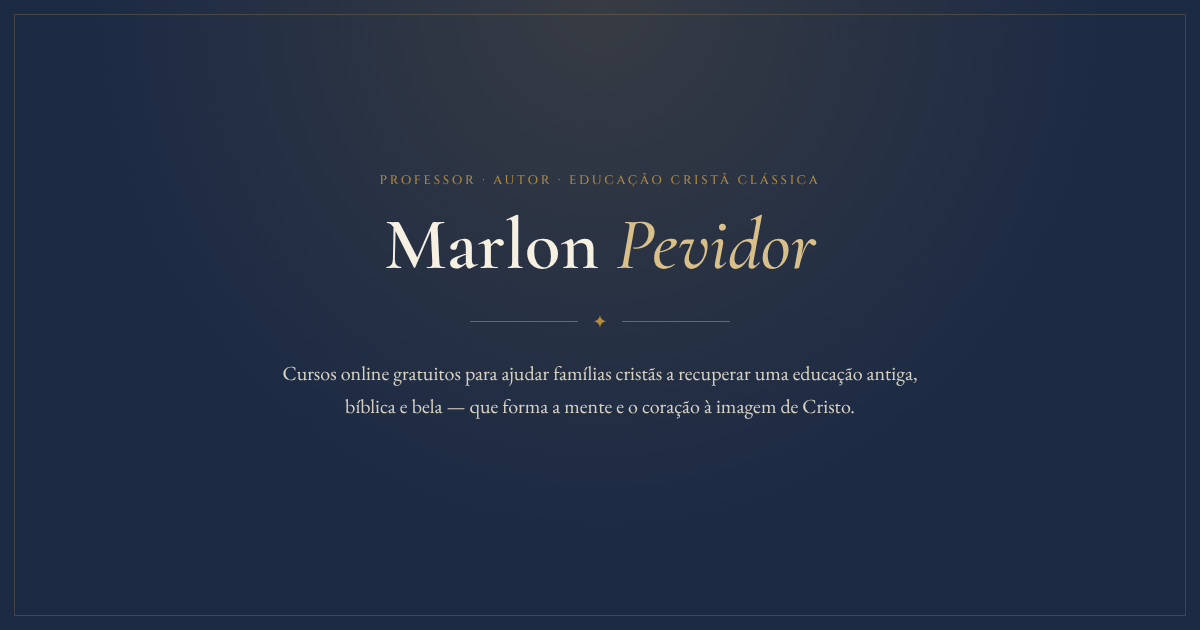
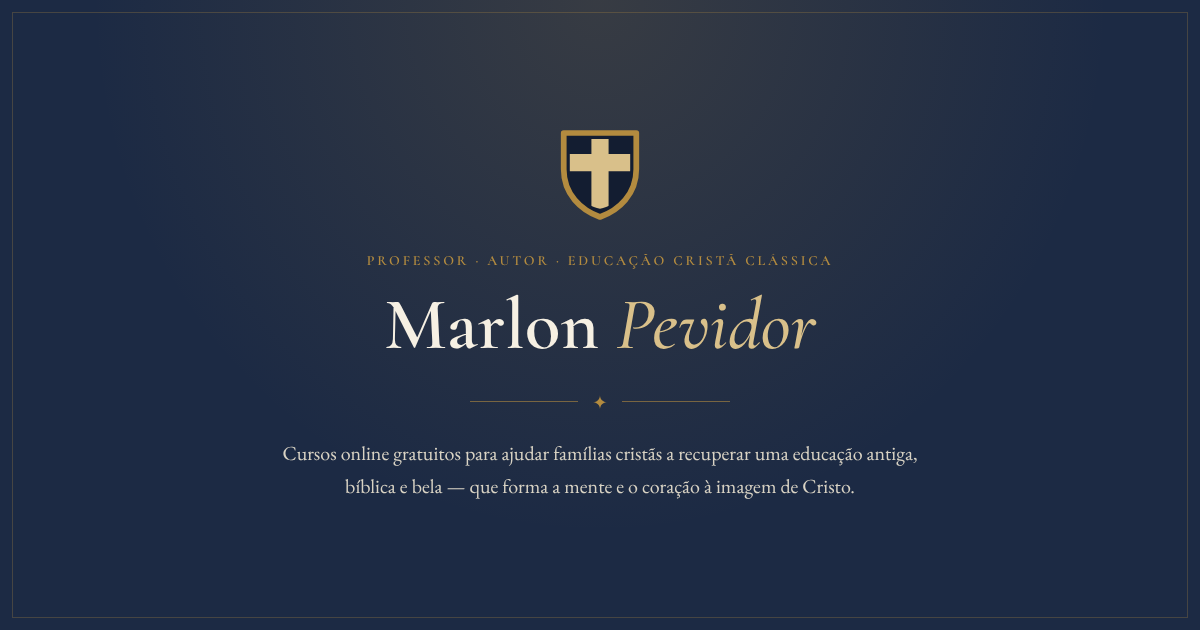
Novo escudo com cruz (desenho próprio) e imagens de compartilhamento atualizadas
- Escudo heráldico de topo reto, cruz latina larga dourada com filete azul
- Mesmo desenho no ícone da aba
- Imagens de compartilhamento com o escudo e endereço marlonpevidor.pages.dev
- ?v=2 nas imagens para o WhatsApp buscar a versão nova
- Script ferramentas/gerar-imagens-compartilhamento.js

Claude-Session: https://claude.ai/code/session_019zbxNExRumNR7DhoC4HdTc

diff --git a/iecc/index.html b/iecc/index.html
@@ -5,14 +5,14 @@
 <meta name="viewport" content="width=device-width, initial-scale=1">
 <title>Introdução à Educação Cristã Clássica · Marlon Pevidor</title>
 <meta name="description" content="Curso online gratuito de introdução à educação cristã clássica, com Marlon Pevidor.">
-<link rel="canonical" href="https://curso-iecc.pages.dev/iecc/">
+<link rel="canonical" href="https://marlonpevidor.pages.dev/iecc/">
 <meta property="og:type" content="website">
 <meta property="og:locale" content="pt_BR">
 <meta property="og:site_name" content="Marlon Pevidor">
-<meta property="og:url" content="https://curso-iecc.pages.dev/iecc/">
+<meta property="og:url" content="https://marlonpevidor.pages.dev/iecc/">
 <meta property="og:title" content="Introdução à Educação Cristã Clássica · Marlon Pevidor">
 <meta property="og:description" content="Curso online gratuito: redescubra a tradição que formou gerações pela verdade, pela bondade e pela beleza.">
-<meta property="og:image" content="https://curso-iecc.pages.dev/iecc/compartilhar.png">
+<meta property="og:image" content="https://marlonpevidor.pages.dev/iecc/compartilhar.png?v=2">
 <meta property="og:image:width" content="1200">
 <meta property="og:image:height" content="630">
 <meta name="twitter:card" content="summary_large_image">
@@ -27,10 +27,7 @@
 <header class="top">
   <div class="wrap">
     <a class="brand" href="../">
-      <svg class="crest" viewBox="0 0 40 40" aria-hidden="true">
-        <path d="M20 2 L36 8 V20 C36 29 28 35 20 38 C12 35 4 29 4 20 V8 Z" fill="none" stroke="#b38b3f" stroke-width="1.5"/>
-        <!-- Cruz: Phosphor Icons "cross-fill" (licença MIT) --><g transform="translate(7.45 6.9) scale(0.098)" fill="#d9c08a"><path d="M216,92v24a16,16,0,0,1-16,16H156v92a16,16,0,0,1-16,16H116a16,16,0,0,1-16-16V132H56a16,16,0,0,1-16-16V92A16,16,0,0,1,56,76h44V32a16,16,0,0,1,16-16h24a16,16,0,0,1,16,16V76h44A16,16,0,0,1,216,92Z"/></g>
-      </svg>
+      <!-- Escudo com cruz: desenho próprio (heráldica clássica) --><svg class="crest" aria-hidden="true" viewBox="0 0 44 50"><defs><clipPath id="escudo"><path d="M6.1 6.1 H37.9 V22 C37.9 33.14 30.759999999999998 41.019999999999996 22 42.66 C13.24 41.019999999999996 6.1 33.14 6.1 22 Z"/></clipPath></defs><path d="M3 3 H41 V22 C41 35 32 43.5 22 47 C12 43.5 3 35 3 22 Z" fill="#131d31"/><path d="M17.5 0 H26.5 V14 H44 V23 H26.5 V50 H17.5 V23 H0 V14 H17.5 Z" fill="#d9c08a" clip-path="url(#escudo)"/><path d="M3 3 H41 V22 C41 35 32 43.5 22 47 C12 43.5 3 35 3 22 Z" fill="none" stroke="#b38b3f" stroke-width="3.0" stroke-linejoin="round"/></svg>
       <span>MARLON PEVIDOR</span>
     </a>
     <nav class="links">

diff --git a/index.html b/index.html
@@ -5,14 +5,14 @@
 <meta name="viewport" content="width=device-width, initial-scale=1">
 <title>Marlon Pevidor · Educação Cristã Clássica</title>
 <meta name="description" content="Cursos online gratuitos de educação cristã clássica e história da Igreja, com o professor Marlon Pevidor.">
-<link rel="canonical" href="https://curso-iecc.pages.dev/">
+<link rel="canonical" href="https://marlonpevidor.pages.dev/">
 <meta property="og:type" content="website">
 <meta property="og:locale" content="pt_BR">
 <meta property="og:site_name" content="Marlon Pevidor">
-<meta property="og:url" content="https://curso-iecc.pages.dev/">
+<meta property="og:url" content="https://marlonpevidor.pages.dev/">
 <meta property="og:title" content="Marlon Pevidor · Educação Cristã Clássica">
 <meta property="og:description" content="Cursos online gratuitos para formar a mente e o coração da sua família.">
-<meta property="og:image" content="https://curso-iecc.pages.dev/compartilhar.png">
+<meta property="og:image" content="https://marlonpevidor.pages.dev/compartilhar.png?v=2">
 <meta property="og:image:width" content="1200">
 <meta property="og:image:height" content="630">
 <meta name="twitter:card" content="summary_large_image">
@@ -31,10 +31,7 @@
 <header class="top">
   <div class="wrap">
     <a class="brand" href="#">
-      <svg class="crest" viewBox="0 0 40 40" aria-hidden="true">
-        <path d="M20 2 L36 8 V20 C36 29 28 35 20 38 C12 35 4 29 4 20 V8 Z" fill="none" stroke="#b38b3f" stroke-width="1.5"/>
-        <!-- Cruz: Phosphor Icons "cross-fill" (licença MIT) --><g transform="translate(7.45 6.9) scale(0.098)" fill="#d9c08a"><path d="M216,92v24a16,16,0,0,1-16,16H156v92a16,16,0,0,1-16,16H116a16,16,0,0,1-16-16V132H56a16,16,0,0,1-16-16V92A16,16,0,0,1,56,76h44V32a16,16,0,0,1,16-16h24a16,16,0,0,1,16,16V76h44A16,16,0,0,1,216,92Z"/></g>
-      </svg>
+      <!-- Escudo com cruz: desenho próprio (heráldica clássica) --><svg class="crest" aria-hidden="true" viewBox="0 0 44 50"><defs><clipPath id="escudo"><path d="M6.1 6.1 H37.9 V22 C37.9 33.14 30.759999999999998 41.019999999999996 22 42.66 C13.24 41.019999999999996 6.1 33.14 6.1 22 Z"/></clipPath></defs><path d="M3 3 H41 V22 C41 35 32 43.5 22 47 C12 43.5 3 35 3 22 Z" fill="#131d31"/><path d="M17.5 0 H26.5 V14 H44 V23 H26.5 V50 H17.5 V23 H0 V14 H17.5 Z" fill="#d9c08a" clip-path="url(#escudo)"/><path d="M3 3 H41 V22 C41 35 32 43.5 22 47 C12 43.5 3 35 3 22 Z" fill="none" stroke="#b38b3f" stroke-width="3.0" stroke-linejoin="round"/></svg>
       <span>MARLON PEVIDOR</span>
     </a>
     <nav class="links">

diff --git a/ferramentas/gerar-imagens-compartilhamento.js b/ferramentas/gerar-imagens-compartilhamento.js
@@ -1,0 +1,26 @@
+// Gera as imagens de compartilhamento (1200x630) a partir do topo de cada página, com o escudo.
+// Uso: na raiz, rode  python3 -m http.server 8765  e depois  node ferramentas/gerar-imagens-compartilhamento.js
+const { chromium } = require('playwright');
+(async () => {
+  const b = await chromium.launch();
+  for (const [url, out] of [['http://localhost:8765/', 'compartilhar.png'], ['http://localhost:8765/iecc/', 'iecc/compartilhar.png']]) {
+    const p = await b.newPage({ viewport: { width: 1200, height: 630 } });
+    await p.goto(url); await p.waitForTimeout(1500);
+    await p.evaluate(() => {
+      const crest = document.querySelector('header .crest').cloneNode(true);
+      crest.setAttribute('class', 'share-crest');
+      crest.querySelector('clipPath').id = 'escudo-share';
+      crest.querySelector('[clip-path]').setAttribute('clip-path', 'url(#escudo-share)');
+      document.querySelector('.hero .wrap').prepend(crest);
+    });
+    await p.addStyleTag({ content: `header.top,.hero .actions{display:none!important}
+      .hero{height:630px;display:flex;align-items:center;padding:0!important}.hero .wrap{width:100%}
+      .share-crest{display:block;width:84px;height:96px;margin:0 auto 26px}
+      .hero .meta{display:none!important} .hero h1{max-width:22ch!important}
+      .hero p.lede{margin-bottom:0!important}` });
+    await p.waitForTimeout(500);
+    await p.screenshot({ path: '/home/user/landing-page/' + out });
+    await p.close();
+  }
+  await b.close();
+})();

diff --git a/estilo.css b/estilo.css
@@ -74,7 +74,7 @@
   header.top .wrap { display: flex; align-items: center; justify-content: space-between; height: 68px; }
   .brand { display: flex; align-items: center; gap: 12px; text-decoration: none; color: var(--parchment); }
   .crest {
-    width: 40px; height: 40px; flex: none;
+    width: 36px; height: 41px; flex: none;
   }
   .brand span { font-family: var(--caps); font-weight: 600; letter-spacing: .14em; font-size: 1.02rem; }
   nav.links a {

diff --git a/CLAUDE.md b/CLAUDE.md
@@ -18,8 +18,13 @@ Endereços: `marlonpevidor.pages.dev` (principal) e `curso-iecc.pages.dev` (anti
 - Fontes: Cormorant Garamond (títulos), EB Garamond (texto), Cormorant SC peso 600 (rótulos em maiúsculas).
   Não usar Cinzel: o "Ã" some em alguns navegadores (visto no computador do professor).
 - Menu do topo aparece também no celular (marca e links centralizados em duas linhas).
-- Símbolo: escudo dourado (desenho próprio) com a cruz "cross-fill" da Phosphor Icons (licença MIT) dentro.
-  O mesmo desenho é o ícone da aba (`favicon.svg`). Estilos testados em `estilos-cruz.png`.
+- Símbolo: escudo heráldico clássico de topo reto (desenho próprio), fundo azul-marinho, borda dourada,
+  cruz latina larga dourada com os braços chegando perto da borda e um filete azul separando.
+  Inspirado na ideia geral de "escudo com cruz" (heráldica de domínio público). NÃO imitar o escudo do Palmeiras
+  (topo côncavo, ponta no braço de cima da cruz, vermelho e branco). Mesmo desenho em `favicon.svg`.
+- Imagens de compartilhamento (WhatsApp etc.): `compartilhar.png` e `<curso>/compartilhar.png`, geradas com
+  `node ferramentas/gerar-imagens-compartilhamento.js` (servidor local ligado). NÃO se atualizam sozinhas:
+  gerar de novo quando o topo mudar e aumentar o `?v=N` na meta `og:image`, porque o WhatsApp guarda a imagem antiga.
 
 ## Simetria — regra obrigatória (o professor faz questão)
 Usar sempre as medidas de `:root`; nunca valores soltos de padding/margin para seções e caixas.
@@ -49,5 +54,4 @@ Usar sempre as medidas de `:root`; nunca valores soltos de padding/margin para s
 - Foto do professor; link de compra e capa do livro; mentoria "A mente bem educada" (confirmar se existe);
   vídeos soltos `IMG_0144.MOV` e `IMG_0906.MOV` na pasta do curso.
 - Links do YouTube das 38 aulas do IECC (campo `youtube` em `MODULOS`).
-- Trocar `curso-iecc.pages.dev` por `marlonpevidor.pages.dev` nas meta tags quando confirmado.
 - Lista final dos cursos (Panorama da História da Igreja, Seminário e outros).
